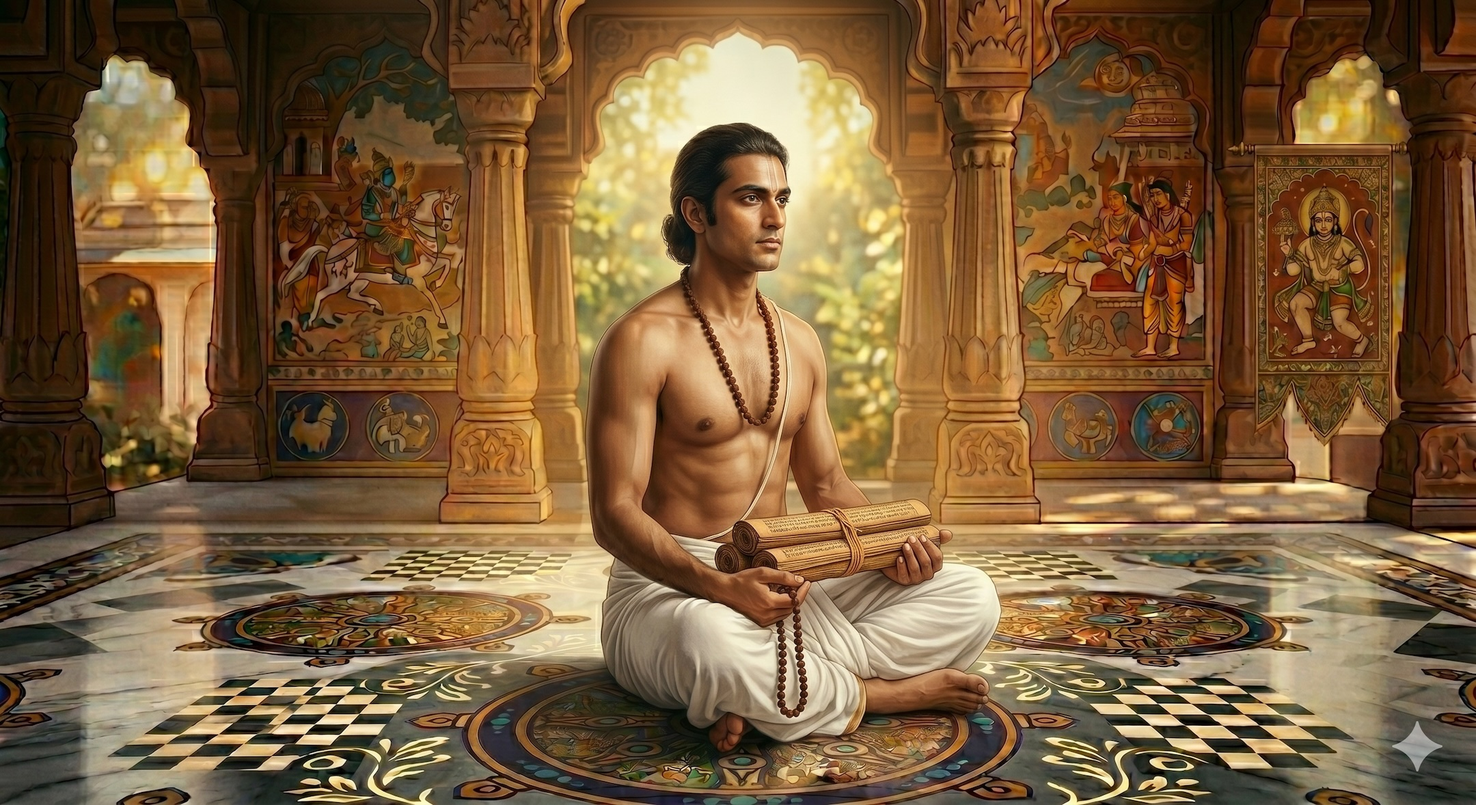
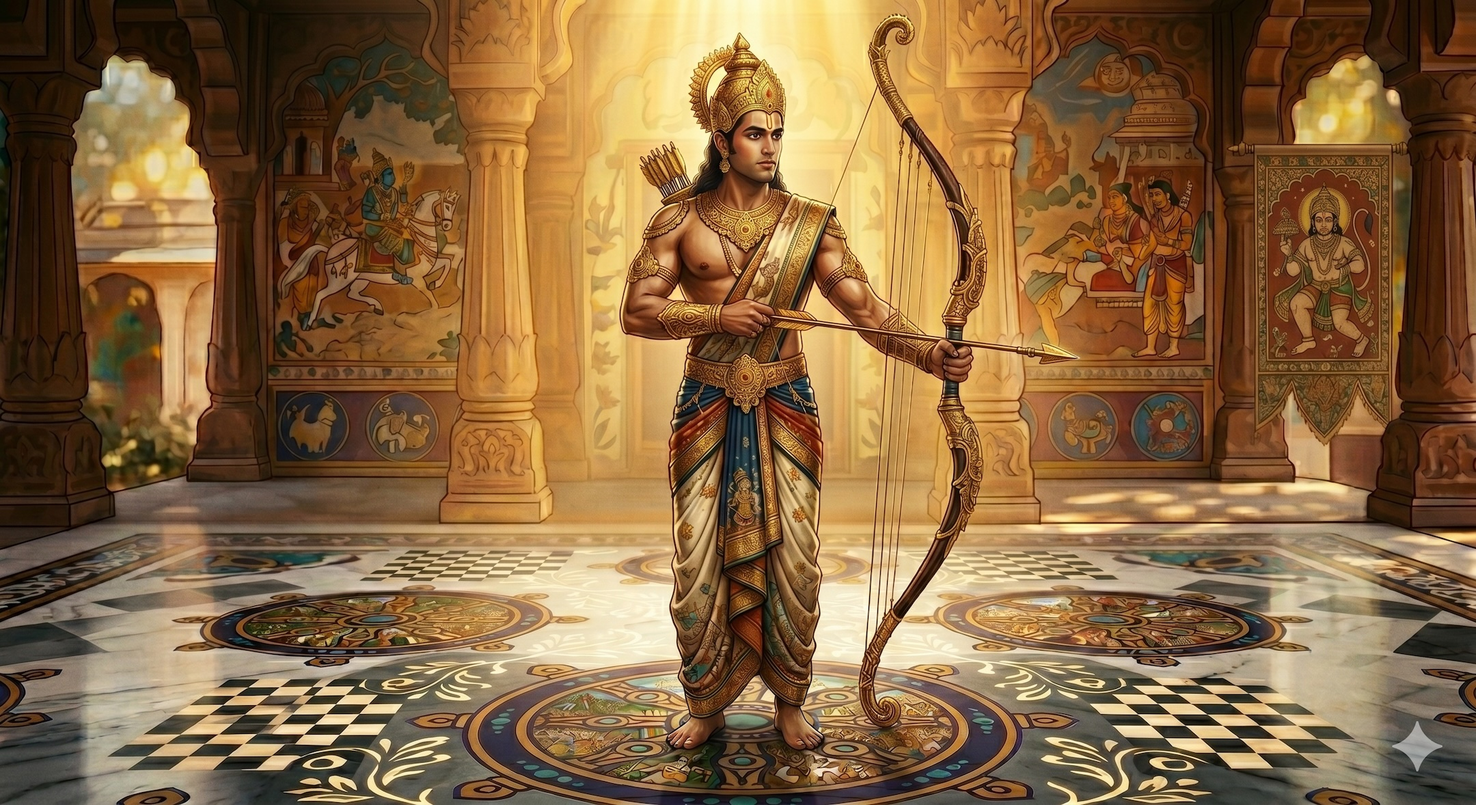
Add files via upload

diff --git a/js/quizzes/pandava.js b/js/quizzes/pandava.js
@@ -196,6 +196,7 @@ window.QUIZ_DATA = {
     yudhishthira: {
       dominant: 'Yudhishthira', dominantHi: 'युधिष्ठिर',
       subtitle: 'The Dharmic Leader', subtitleHi: 'धर्मिष्ठ नेता',
+      image: 'images/pandava/yudhishthira.jpg',
       reflection: "Dear seeker, your answers reveal a soul devoted to dharma — to what is right, true, and just. Like Yudhishthira, you carry an inner compass that refuses to compromise, even when the path is unclear. You seek not just success, but righteousness. You value truth above convenience, principle above popularity.\n\nBut this strength has its shadow. The weight of always choosing \"right\" can paralyze you. You know this — the moments when you stand frozen, unable to act because no option feels perfect. The Gita reminds us that even dharma can become a cage when pursued with rigidity.\n\nKrishna's counsel to you is gentle: Dharma is not found in perfection, but in sincere action. Your integrity is your strength, but do not let the fear of imperfection keep you from the battlefield of life. Act with your best understanding, then release the outcome to the divine. Even Yudhishthira had to learn this truth through his own journey.",
       reflectionHi: "प्रिय साधक, आपके उत्तर धर्म के प्रति समर्पित आत्मा को प्रकट करते हैं। युधिष्ठिर की तरह, आप एक आंतरिक दिशा-निर्देश रखते हैं जो समझौता करने से इनकार करता है। आप केवल सफलता नहीं, बल्कि धार्मिकता चाहते हैं।\n\nलेकिन इस शक्ति की अपनी छाया है। हमेशा \"सही\" चुनने का बोझ आपको लकवाग्रस्त कर सकता है। गीता हमें याद दिलाती है कि कठोरता के साथ पीछा करने पर धर्म भी एक पिंजरा बन सकता है।\n\nकृष्ण की आपके लिए सलाह कोमल है: धर्म पूर्णता में नहीं, बल्कि ईमानदार कार्रवाई में पाया जाता है। अपनी श्रेष्ठ समझ के साथ कार्य करें, फिर परिणाम को दिव्य पर छोड़ दें।",
       shloka: 'neha abhikrama-nasho\'sti pratyavayo na vidyate / svalpam apy asya dharmasya trayate mahato bhayat',
@@ -207,6 +208,7 @@ window.QUIZ_DATA = {
     bhima: {
       dominant: 'Bhima', dominantHi: 'भीम',
       subtitle: 'The Protective Warrior', subtitleHi: 'रक्षक योद्धा',
+      image: 'images/pandava/bhima.jpg',
       reflection: "Dear seeker, your answers reveal a spirit of fierce protection and direct action. Like Bhima, you do not hesitate when someone you love needs defending. You cut through complexity with strength and clarity. Where others deliberate endlessly, you act. Where others avoid confrontation, you stand firm.\n\nThis directness is your power. But it carries a shadow — the tendency to bulldoze nuance, to dismiss what feels weak or soft. The Gita teaches that true strength includes the capacity for gentleness, that the warrior's power is incomplete without wisdom's restraint.\n\nKrishna would remind you: Your courage is a gift, but channel it with discernment. Not every situation requires force. Not every problem yields to a frontal assault. The greatest warriors know when to strike and when to hold back. Let your strength become conscious, not just reactive. Then you become truly unstoppable.",
       reflectionHi: "प्रिय साधक, आपके उत्तर उग्र सुरक्षा और प्रत्यक्ष कार्रवाई की भावना को प्रकट करते हैं। भीम की तरह, जब किसी प्रियजन को बचाव की जरूरत होती है तो आप झिझकते नहीं।\n\nयह प्रत्यक्षता आपकी शक्ति है। लेकिन यह एक छाया रखती है — सूक्ष्मता को कुचलने की प्रवृत्ति। गीता सिखाती है कि सच्ची शक्ति में कोमलता की क्षमता शामिल है।\n\nकृष्ण आपको याद दिलाएंगे: आपका साहस एक उपहार है, लेकिन इसे विवेक के साथ प्रसारित करें। सबसे महान योद्धा जानते हैं कि कब प्रहार करना है और कब रुकना है।",
       shloka: 'tasmat tvam uttishtha yasho labhasva / jitva shatrun bhunksha rajyam samridhham',
@@ -218,6 +220,7 @@ window.QUIZ_DATA = {
     arjuna: {
       dominant: 'Arjuna', dominantHi: 'अर्जुन',
       subtitle: 'The Skilled Seeker', subtitleHi: 'कुशल साधक',
+      image: 'images/pandava/arjuna.jpg',
       reflection: "Dear seeker, your answers reveal the heart of a skilled seeker — someone who wants not just to succeed, but to excel. Like Arjuna, you are driven by the pursuit of mastery. You seek teachers, refine your craft, question yourself deeply. This dedication to excellence is your gift.\n\nBut it comes with a shadow you know well: the anxiety of performance, the need for validation, the spiral of self-doubt. You know the paralysis that comes from asking \"Am I good enough?\" too often. The Gita offers you the same teaching Krishna gave Arjuna on the battlefield.\n\nYour worth is not in the outcome. Your value is not measured by others' approval. Do your work with full devotion, then release attachment to the result. Trust the process. Trust your teacher. Most importantly, trust yourself. Excellence is not perfection — it is sincere effort offered without fear. This is what Krishna asks of you.",
       reflectionHi: "प्रिय साधक, आपके उत्तर एक कुशल साधक के दिल को प्रकट करते हैं। अर्जुन की तरह, आप महारत की खोज से प्रेरित हैं। आप शिक्षक खोजते हैं, अपनी कला को परिष्कृत करते हैं।\n\nलेकिन यह एक छाया के साथ आता है: प्रदर्शन की चिंता, सत्यापन की आवश्यकता, आत्म-संदेह। गीता आपको वही शिक्षा देती है जो कृष्ण ने अर्जुन को युद्ध के मैदान में दी।\n\nआपका मूल्य परिणाम में नहीं है। अपना काम पूर्ण भक्ति के साथ करें, फिर परिणाम के प्रति आसक्ति छोड़ दें। सबसे महत्वपूर्ण — खुद पर भरोसा रखें।",
       shloka: 'tad viddhi pranipatena pariprashnena sevaya / upadekshyanti te jnanam jnaninas tattva-darsinah',
@@ -229,6 +232,7 @@ window.QUIZ_DATA = {
     nakula: {
       dominant: 'Nakula', dominantHi: 'नकुल',
       subtitle: 'The Graceful Diplomat', subtitleHi: 'कुशल राजनयिक',
+      image: 'images/pandava/nakula.jpg',
       reflection: "Dear seeker, your answers reveal a soul that seeks connection and harmony above all. Like Nakula, you carry grace, empathy, and a deep awareness of how your actions affect others. You are the bridge-builder, the one who makes others feel seen and valued. This is a profound gift.\n\nBut it has its shadow — the tendency to lose yourself in others' needs, to avoid necessary conflict, to say yes when you mean no. You know the exhaustion that comes from always accommodating, always smoothing over, always seeking to be liked.\n\nThe Gita teaches that true harmony does not come from avoiding all discord. Sometimes love requires saying no. Sometimes connection demands honest boundaries. Krishna would tell you: Your empathy is beautiful, but do not abandon yourself in service of peace. The most graceful act is to honor both others and yourself. This is the balance you seek.",
       reflectionHi: "प्रिय साधक, आपके उत्तर एक ऐसी आत्मा को प्रकट करते हैं जो सबसे ऊपर संबंध और सामंजस्य चाहती है। नकुल की तरह, आप अनुग्रह, सहानुभूति, और इस बात की गहरी जागरूकता रखते हैं कि आपके कार्य दूसरों को कैसे प्रभावित करते हैं।\n\nलेकिन इसकी अपनी छाया है — दूसरों की जरूरतों में खुद को खोने की प्रवृत्ति। गीता सिखाती है कि सच्चा सामंजस्य सभी कलह से बचने से नहीं आता।\n\nकृष्ण आपसे कहेंगे: आपकी सहानुभूति सुंदर है, लेकिन शांति की सेवा में खुद को छोड़ न दें। दूसरों और खुद दोनों का सम्मान करना सबसे अनुग्रहपूर्ण कार्य है।",
       shloka: 'adveshta sarva-bhutanam maitrah karuna eva cha / nirmamo nirahankara sama-dukha-sukhah kshami',
@@ -240,6 +244,7 @@ window.QUIZ_DATA = {
     sahadeva: {
       dominant: 'Sahadeva', dominantHi: 'सहदेव',
       subtitle: 'The Wise Observer', subtitleHi: 'ज्ञानी पर्यवेक्षक',
+      image: 'images/pandava/sahadeva.jpg',
       reflection: "Dear seeker, your answers reveal a mind that sees what others miss — patterns, connections, the invisible architecture beneath the surface. Like Sahadeva, you possess intuitive wisdom and strategic depth. You observe quietly, understand profoundly, and see the long game.\n\nBut this gift has its shadow: the paralysis of over-analysis, the detachment that comes from seeing too much, the difficulty of translating insight into action. You know the frustration of understanding what needs to be done yet struggling to simply do it.\n\nThe Gita offers you this: Knowledge without action is incomplete. Wisdom finds its fulfillment not in more seeing, but in engaged doing. Krishna would ask you to trust that you don't need perfect understanding to act. Sometimes the deepest wisdom is to step forward despite incomplete information. Your insights are valuable — but only when they touch the ground of lived experience. This is your invitation.",
       reflectionHi: "प्रिय साधक, आपके उत्तर एक ऐसे मन को प्रकट करते हैं जो वह देखता है जो दूसरे चूक जाते हैं। सहदेव की तरह, आप सहज ज्ञान और रणनीतिक गहराई रखते हैं। आप चुपचाप देखते हैं, गहराई से समझते हैं।\n\nलेकिन इस उपहार की अपनी छाया है: अति-विश्लेषण का पक्षाघात, बहुत अधिक देखने से आने वाला अलगाव।\n\nगीता आपको यह प्रदान करती है: कार्रवाई के बिना ज्ञान अधूरा है। कृष्ण आपसे कहेंगे कि आपको कार्य करने के लिए पूर्ण समझ की आवश्यकता नहीं है। आपकी अंतर्दृष्टि तभी मूल्यवान है जब वह जीवित अनुभव की भूमि को छूती है।",
       shloka: 'samam sarveshu bhuteshu tishthantam parameshvaram / vinashyatsv avinashyantam yah pashyati sa pashyati',

diff --git a/css/quiz.css b/css/quiz.css
@@ -54,12 +54,13 @@
 .result-hero { text-align: center; padding: 2.5rem 0 2rem; }
 .result-tag { font-family: var(--bo-font-display); font-size: 12px; letter-spacing: 0.3em; text-transform: uppercase; color: var(--bo-gold-deep); margin-bottom: 1.25rem; }
 .result-guna-wrap { position: relative; display: inline-block; margin-bottom: 0.75rem; }
+.result-archetype-img { display: block; width: 160px; height: 160px; border-radius: 50%; object-fit: cover; object-position: top; border: 2px solid var(--bo-gold); box-shadow: 0 0 30px rgba(201,168,76,0.35), 0 8px 24px rgba(0,0,0,0.12); margin: 0 auto 1rem; }
 .result-guna { font-family: var(--bo-font-display); font-size: clamp(3rem, 9vw, 5rem); font-weight: 500; color: var(--bo-gold-dark); line-height: 1; letter-spacing: 0.05em; text-shadow: 0 4px 30px rgba(201,168,76,0.4); }
 .result-halo { position: absolute; inset: -30px; border-radius: 50%; background: radial-gradient(ellipse, rgba(232,201,122,0.4), transparent 65%); pointer-events: none; z-index: -1; }
 .result-sub { font-family: var(--bo-font-body); font-size: 1.25rem; font-style: italic; color: var(--bo-gold-deep); margin-bottom: 2rem; }
 .guna-bars { max-width: 400px; margin: 0 auto 2.5rem; display: flex; flex-direction: column; gap: 14px; }
 .guna-bar-row { display: flex; align-items: center; gap: 14px; }
-.guna-bar-label { font-family: var(--bo-font-display); font-size: 13px; letter-spacing: 0.12em; color: var(--bo-gold-dark); width: 90px; text-align: right; }
+.guna-bar-label { font-family: var(--bo-font-display); font-size: 13px; letter-spacing: 0.12em; color: var(--bo-gold-dark); min-width: 130px; text-align: right; white-space: nowrap; }
 .guna-bar-track { flex: 1; height: 3px; background: rgba(169,126,48,0.12); border-radius: 2px; }
 .guna-bar-fill { height: 100%; border-radius: 2px; transition: width 1.2s var(--bo-ease); }
 .guna-bar-pct { font-family: var(--bo-font-body); font-size: 14px; font-style: italic; color: var(--bo-gold-deep); width: 38px; }

diff --git a/js/quiz-shared.js b/js/quiz-shared.js
@@ -44,6 +44,11 @@ function applyLang() {
 
 function applyResultLang() {
   const isHi = lang === 'hi', d = resultData;
+  const imgEl = document.getElementById('result-image');
+  if (imgEl) {
+    if (d.image) { imgEl.src = d.image; imgEl.alt = isHi ? d.dominantHi : d.dominant; imgEl.style.display = 'block'; }
+    else { imgEl.style.display = 'none'; }
+  }
   document.getElementById('result-guna').textContent = isHi ? d.dominantHi : d.dominant;
   document.getElementById('result-subtitle').textContent = isHi ? d.subtitleHi : d.subtitle;
   document.getElementById('result-body').textContent = isHi ? d.reflectionHi : d.reflection;

diff --git a/quiz.html b/quiz.html
@@ -137,6 +137,7 @@
       <div class="result-tag" id="l-your-guna"></div>
       <div class="result-guna-wrap">
         <div class="result-halo bo-anim-halo"></div>
+        <img id="result-image" class="result-archetype-img" src="" alt="" style="display:none;">
         <div class="result-guna" id="result-guna"></div>
       </div>
       <div class="result-sub" id="result-subtitle"></div>
